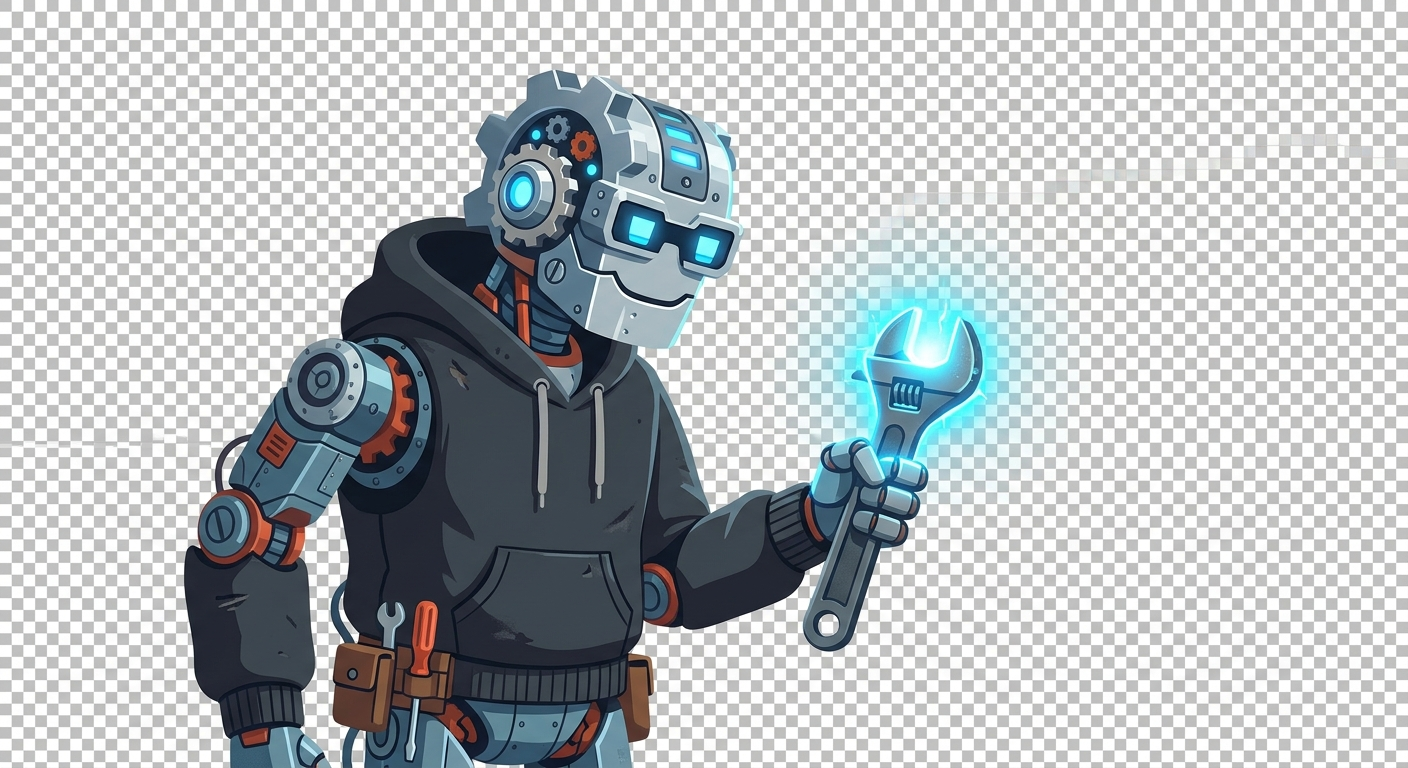
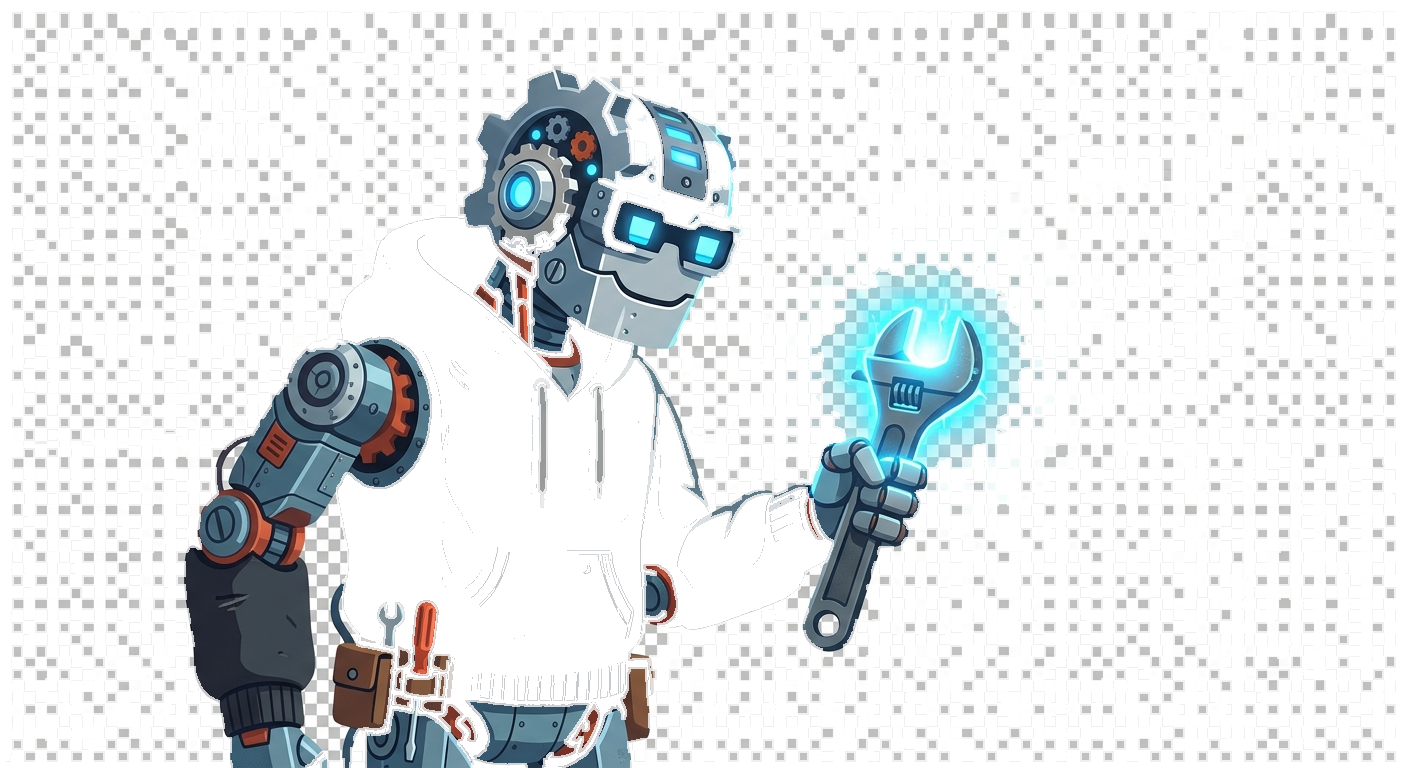
fix(chars): remove gray/white PNG backgrounds via local-tolerance flood fill
All 6 character images (engineering, design, ops, growth, research, pm)
processed with edge-seeded flood fill using local pixel-to-parent tolerance
instead of global seed-distance — handles backgrounds that fade from
~124 (dark gray) to ~255 (white) without blocking.

Sat threshold (60) preserves colored character pixels; feathered edges
(alpha=60) at bg boundary for smooth compositing on dark cards.

Also removes white container background from .character-avatar CSS.

diff --git a/dashboard/index.html b/dashboard/index.html
@@ -63,14 +63,13 @@
     padding: 0.75rem;
   }
   #character-panels-grid .character-avatar {
-    background: #fff;
+    background: transparent;
     border-radius: 10px;
     overflow: hidden;
     display: inline-flex;
     align-items: center;
     justify-content: center;
     padding: 4px;
-    box-shadow: 0 0 0 2px #1a2e4a;
   }
   #character-panels-grid .character-img {
     display: block;
